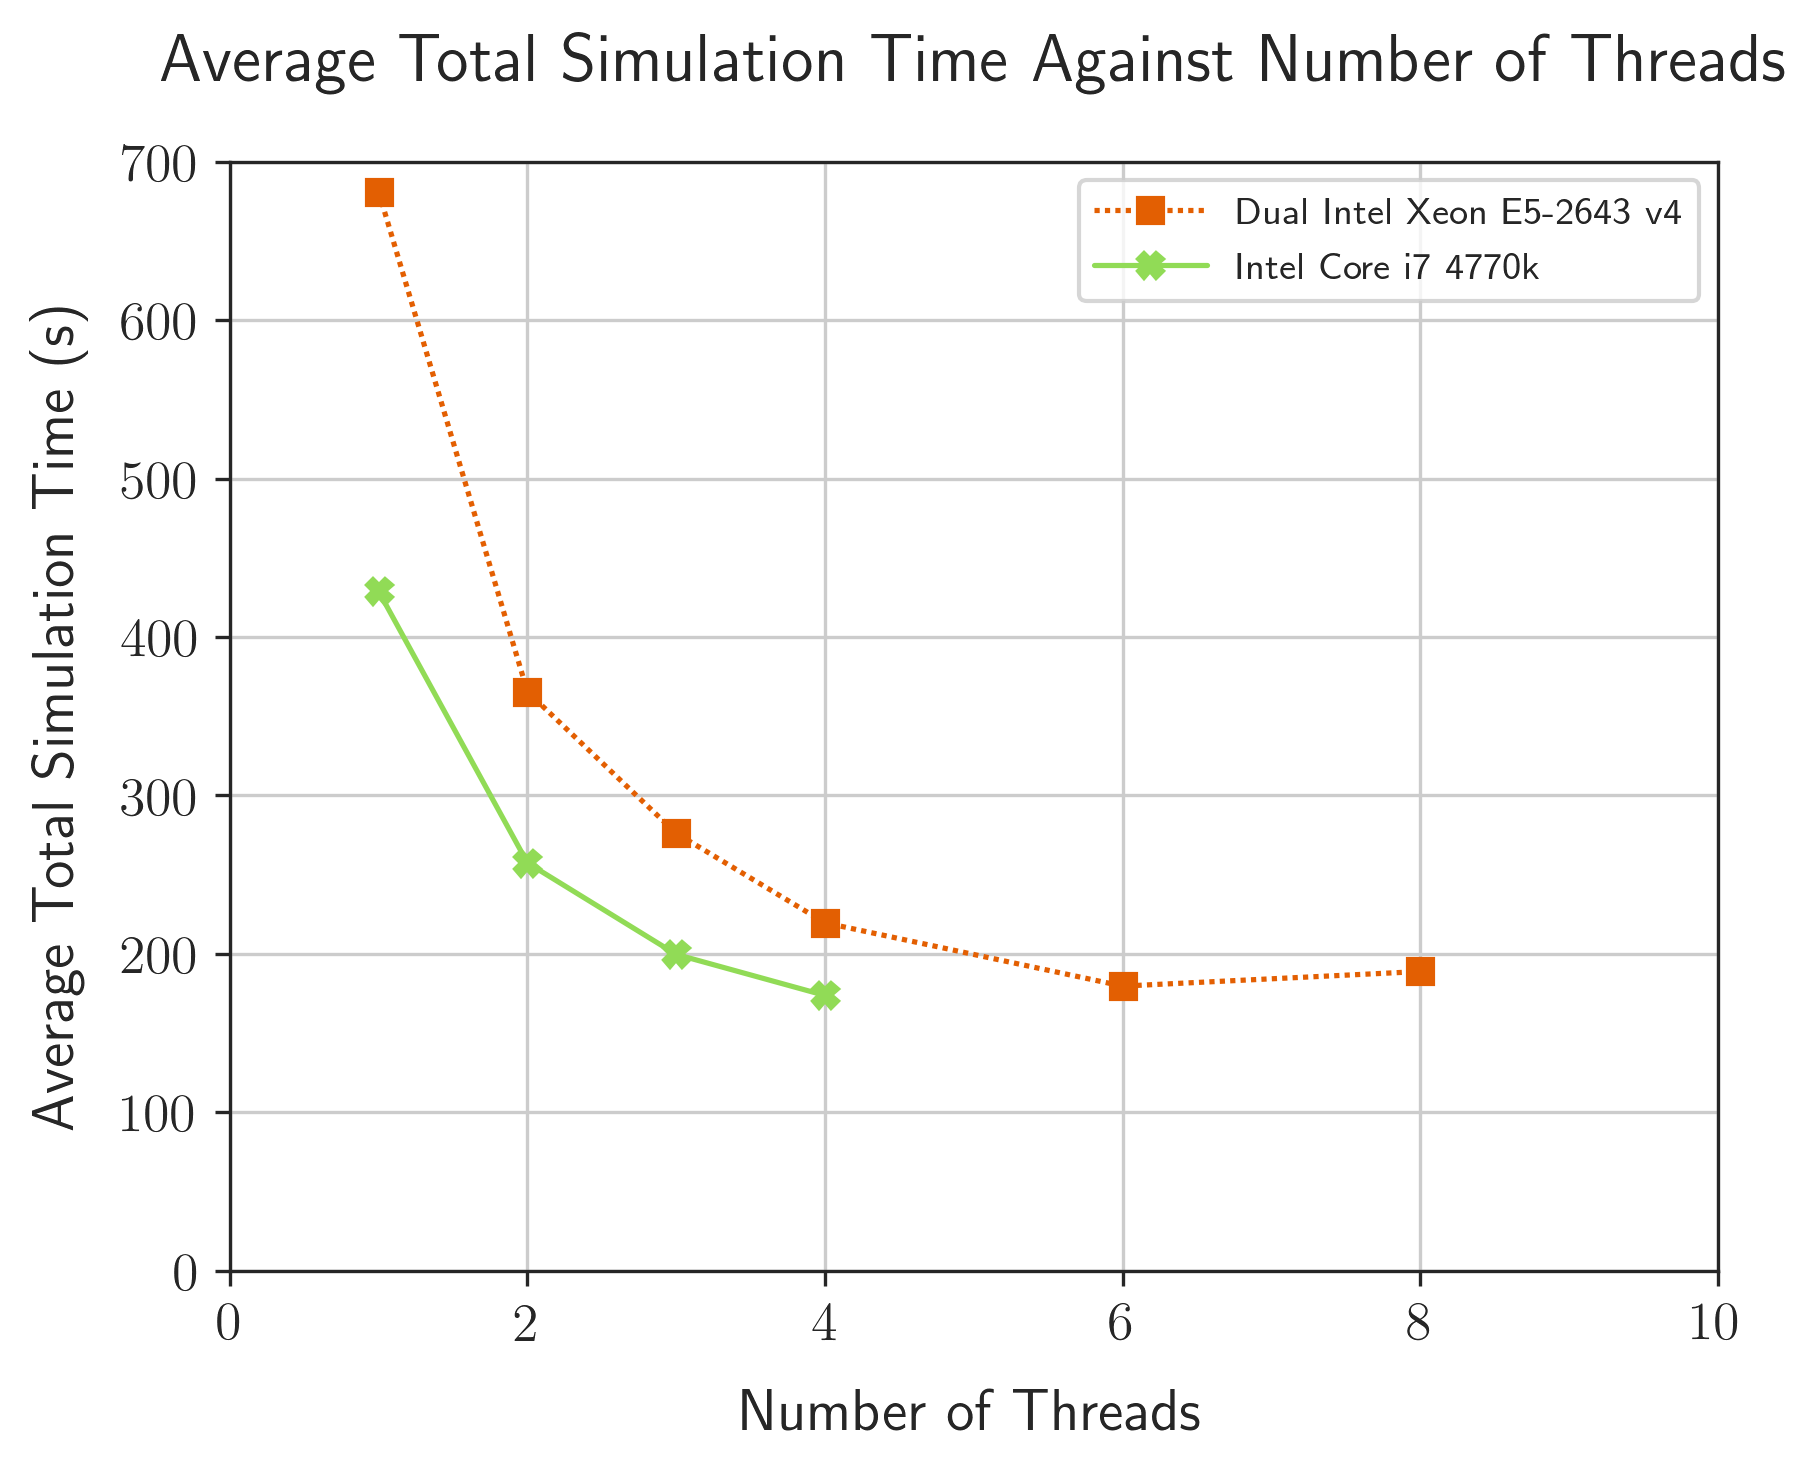
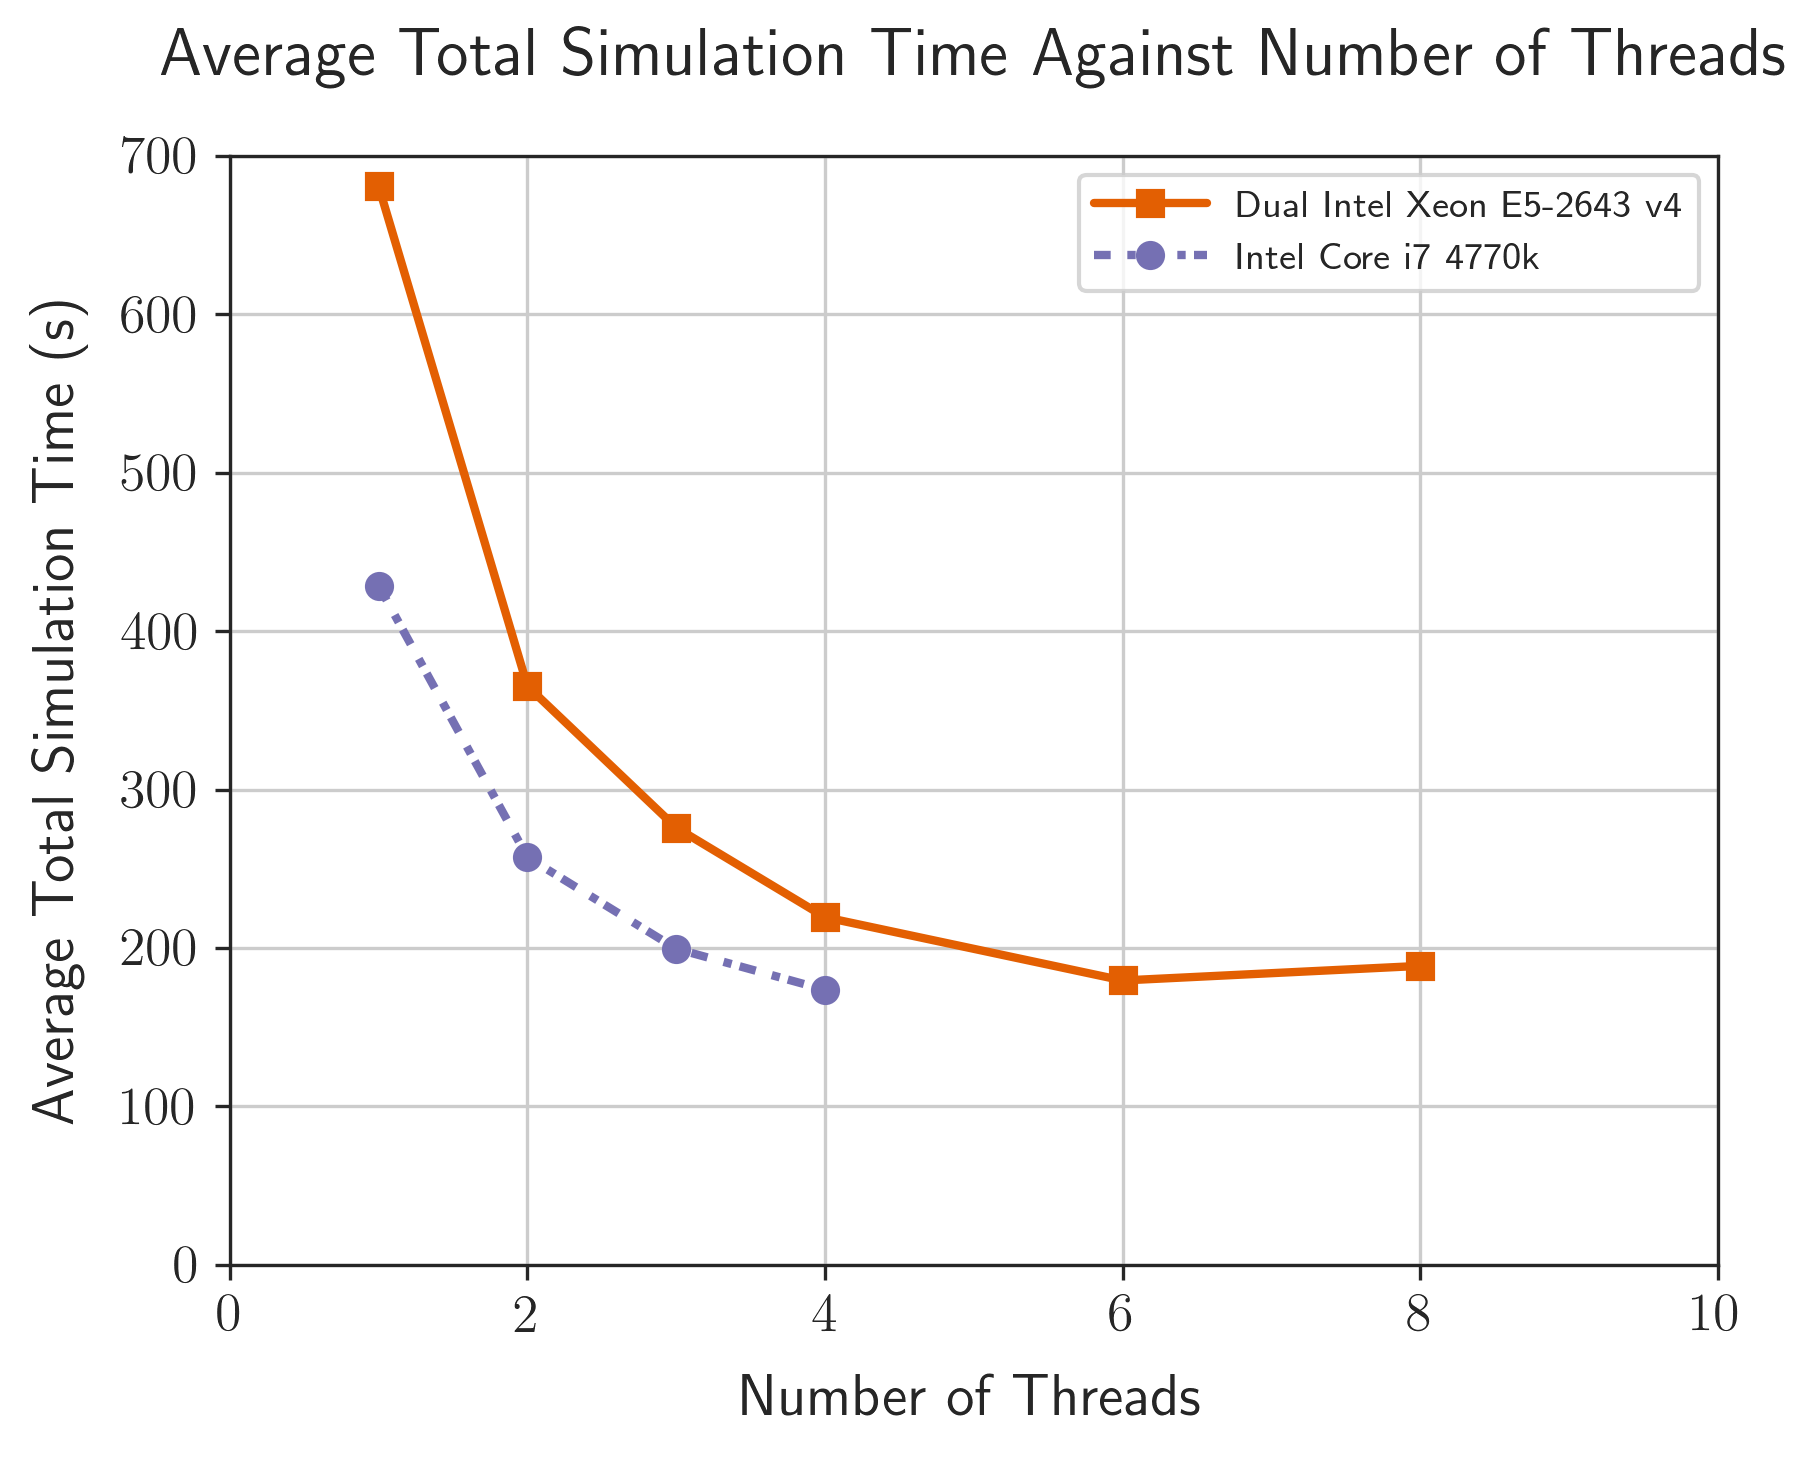
Improve colours of figures

diff --git a/tools/json_to_plot_seaborn.py b/tools/json_to_plot_seaborn.py
@@ -14,6 +14,8 @@ from distutils.util import strtobool
 import seaborn as sns
 
 
+LINE_WIDTH = 2.0
+
 class Series:
     """ Class for convinient storage of data to be plotted.
     """
@@ -200,7 +202,6 @@ class PlotData:
 
 
         if self.FONTSIZE_TITLE_KEY in raw_json:
-            print("new title fontsize");
             self.fontsize_title = raw_json[self.FONTSIZE_TITLE_KEY] #if raw_json[self.FONTSIZE_TITLE_KEY] 
         if self.FONTSIZE_LABEL_KEY in raw_json:
             self.fontsize_label = raw_json[self.FONTSIZE_LABEL_KEY] #if raw_json[self.FONTSIZE_LABEL_KEY] 
@@ -350,7 +351,7 @@ class PlotData:
 
             if plot_series:
                 # line, = ax.plot(series.x, series.y, linestyle=series.linestyle, marker=series.marker, label=series.name, linewidth=1.25, markersize=4)
-                line, = ax.plot(series.x, series.y, color=series.color, linestyle=series.linestyle, marker=series.marker, label=series.name, linewidth=1.25, markersize=series.marker_size)
+                line, = ax.plot(series.x, series.y, color=series.color, linestyle=series.linestyle, marker=series.marker, label=series.name, linewidth=LINE_WIDTH, markersize=series.marker_size)
                 # manually change -- lengths
                 if series.linestyle == "--":
                     line.set_dashes([3, 3])
